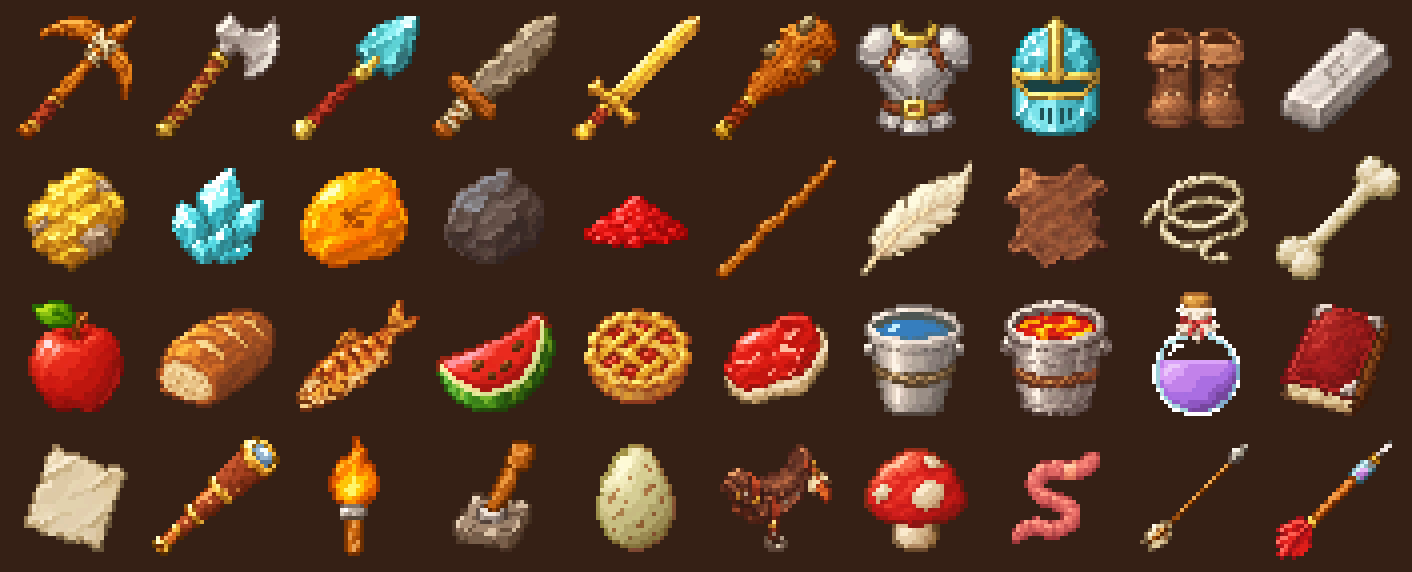
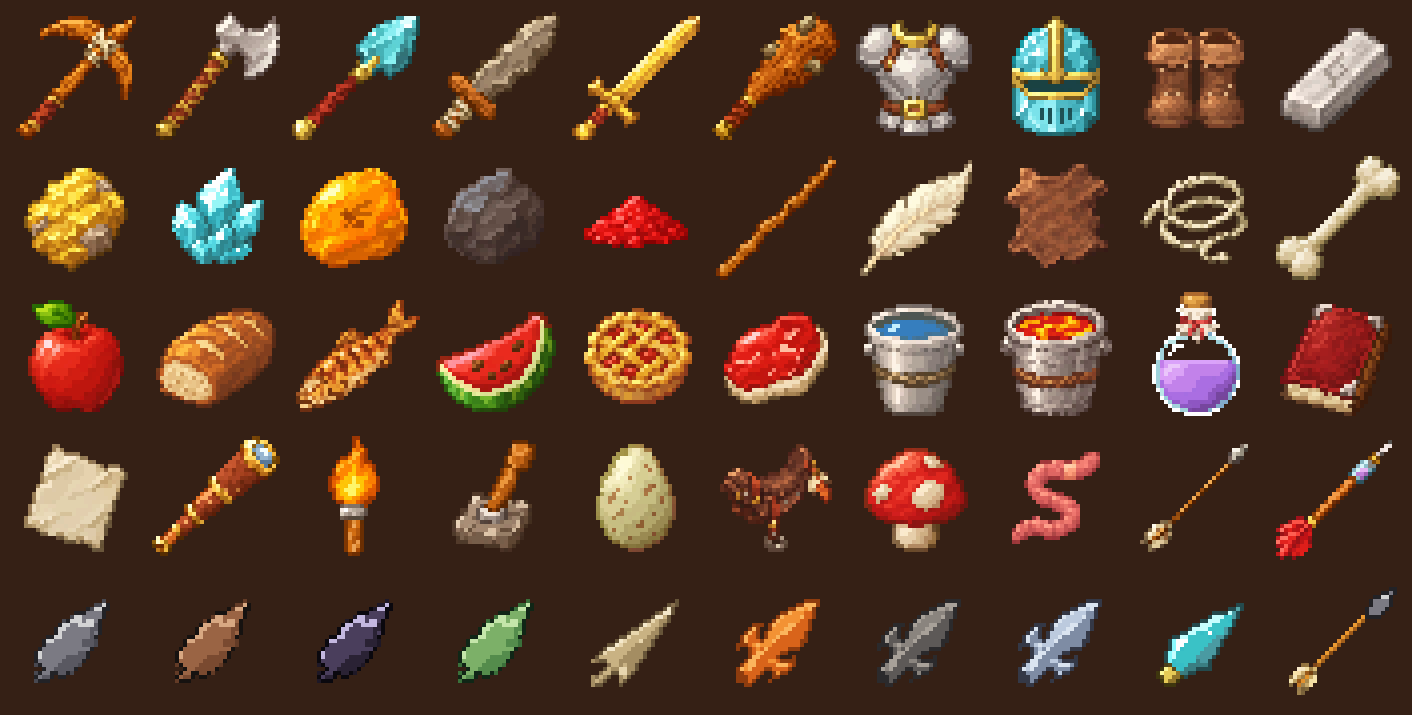
game-art: a part in many materials (the approved arrowheads), and arrowheads in the item key
Ronald approved the arrowhead set ("arrows lgtm"): one drawing per family painted with each
member's ramp, own colours for a member the shared ramp makes misread, the small version shrunk in
code. Our key.png gets a row of them (nine loose heads and the flint arrow).

diff --git a/.claude/skills/game-art/SKILL.md b/.claude/skills/game-art/SKILL.md
@@ -131,6 +131,16 @@ the icons (the one cleanup kept is `pixfix`, orphan speckle and the outline, whi
 `art.py` runs on every item cut since 11-22). Items stay flat pictures, as in Minecraft; 3D held models are set aside
 (`mods/base/source/items/`).
 
+**A part made in many materials** (approved by Ronald 11-23, the arrowheads: "arrows lgtm"):
+generate one drawing per family whose members share a shape (knapped stone, bone, forged metal,
+gem), turn it into a shade map (red = ramp step × 36, what `stack_look` reads), and paint it with
+each member's ramp in code; a family's map uses only the steps that rise in every member's ramp.
+Where a member's ramp makes it read as something else (wrought iron's beige read as bone, chert
+was flint's twin, a grey obsidian read as flint), give that member its own 8 colours in the
+painting rather than changing the shared ramp. The same part smaller (an arrow's head, 8 px) is the
+loose drawing shrunk in code, edge pixels its darkest shade; generating it small gave 5 px smudges.
+Worked example: `chiacraft-archive/images/art/2026-11-23/arrowheads/process.py`.
+
 ## UI parts (the kit)
 
 UI parts come from the master prompt below, run through Codex (`notes/ui-codex/gen.sh NAME
